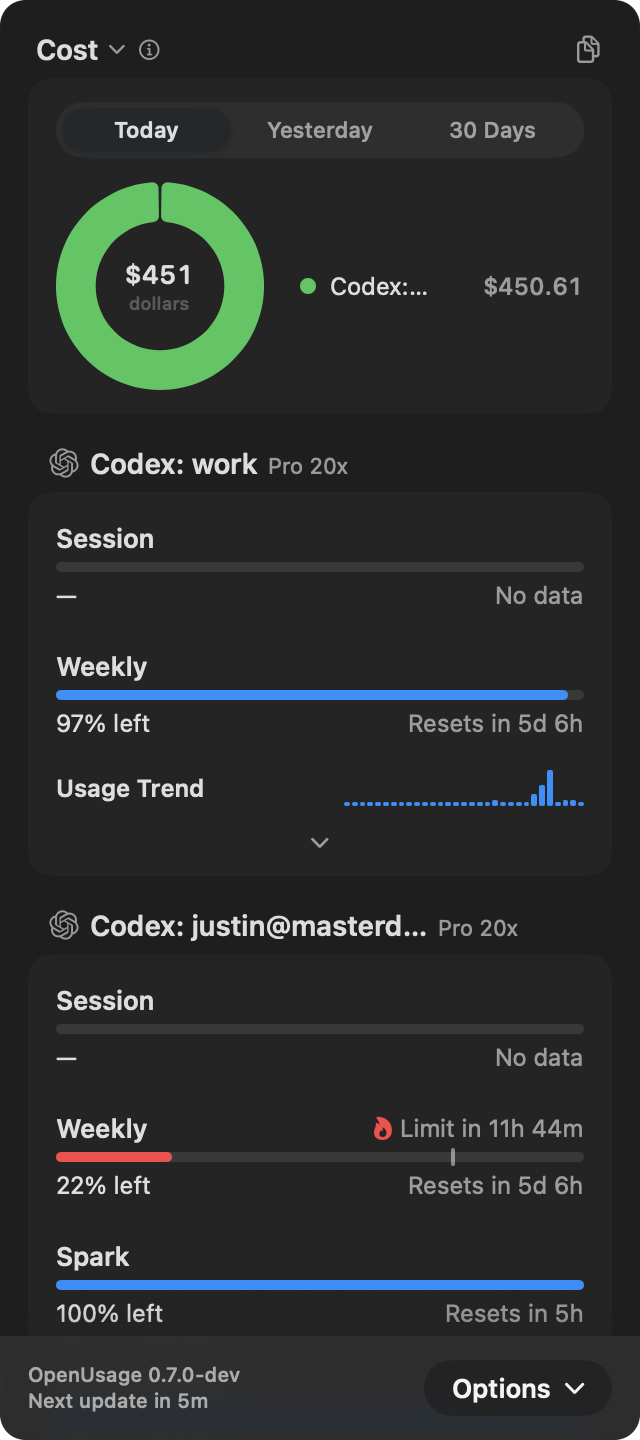
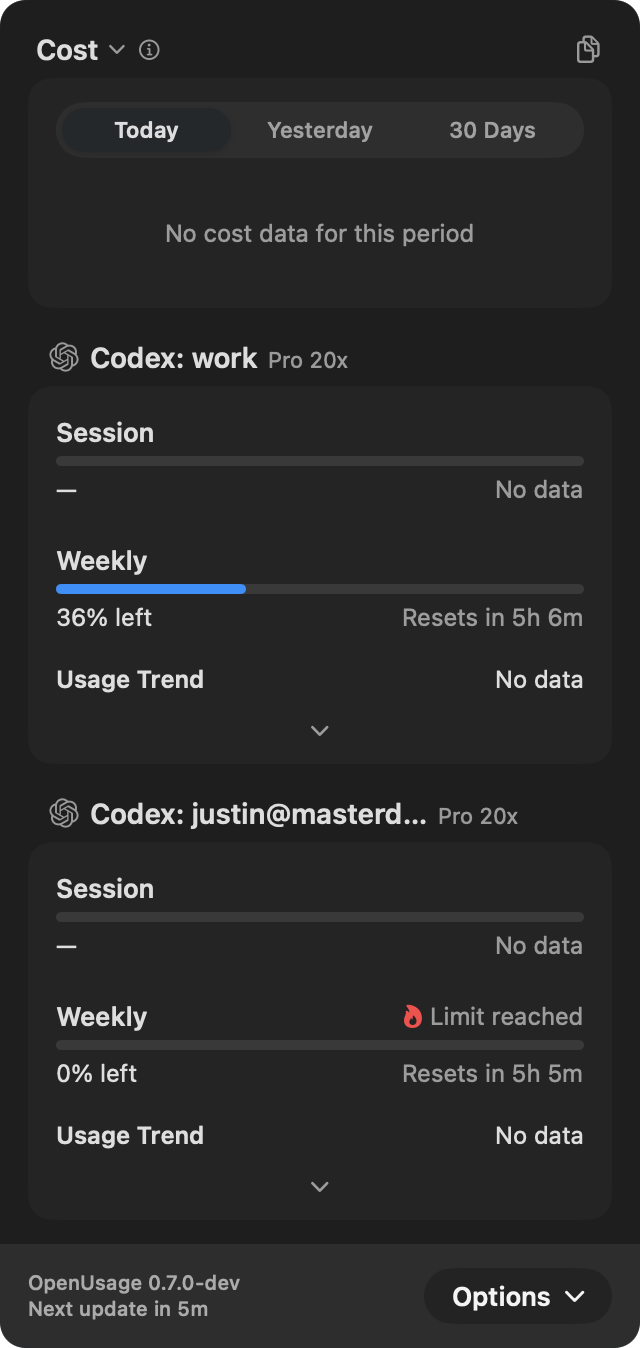
fix(codex): address follow-up account review

diff --git a/Tests/OpenUsageTests/CodexPR1266ReviewTests.swift b/Tests/OpenUsageTests/CodexPR1266ReviewTests.swift
@@ -1,0 +1,183 @@
+import XCTest
+@testable import OpenUsage
+
+@MainActor
+final class CodexPR1266ReviewTests: XCTestCase {
+    private func b64url(_ string: String) -> String {
+        Data(string.utf8).base64EncodedString()
+            .replacingOccurrences(of: "+", with: "-")
+            .replacingOccurrences(of: "/", with: "_")
+            .replacingOccurrences(of: "=", with: "")
+    }
+
+    private func token(accountID: String? = nil, email: String, exp: Date? = nil) -> String {
+        var claims = [#""https://api.openai.com/profile":{"email":"\#(email)"}"#]
+        if let accountID {
+            claims.append(#""https://api.openai.com/auth":{"chatgpt_account_id":"\#(accountID)"}"#)
+        }
+        if let exp { claims.append(#""exp":\#(Int(exp.timeIntervalSince1970))"#) }
+        return "\(b64url(#"{"alg":"RS256"}"#)).\(b64url("{\(claims.joined(separator: ","))}")).sig"
+    }
+
+    private func authJSON(
+        accountID: String?,
+        email: String,
+        accessToken: String? = nil,
+        refreshToken: String? = "rt"
+    ) -> String {
+        let token = accessToken ?? token(accountID: accountID, email: email)
+        let auth = CodexAuth(
+            tokens: CodexTokens(
+                accessToken: token,
+                refreshToken: refreshToken,
+                idToken: self.token(accountID: accountID, email: email),
+                accountID: accountID
+            ),
+            lastRefresh: nil,
+            apiKey: nil
+        )
+        return String(decoding: try! JSONEncoder().encode(auth), as: UTF8.self)
+    }
+
+    private func defaults() -> UserDefaults {
+        let name = "OpenUsageTests.CodexPR1266Review.\(UUID().uuidString)"
+        let defaults = UserDefaults(suiteName: name)!
+        defaults.removePersistentDomain(forName: name)
+        addTeardownBlock { defaults.removePersistentDomain(forName: name) }
+        return defaults
+    }
+
+    func testSiblingDiscoveryIncludesHiddenCodexDirectories() throws {
+        let root = FileManager.default.temporaryDirectory.appendingPathComponent(UUID().uuidString)
+        try FileManager.default.createDirectory(at: root, withIntermediateDirectories: true)
+        addTeardownBlock { try? FileManager.default.removeItem(at: root) }
+        try FileManager.default.createDirectory(at: root.appendingPathComponent(".codex-work"), withIntermediateDirectories: false)
+        try Data().write(to: root.appendingPathComponent(".codex-file"))
+
+        let names = CodexAccountDiscovery.listSubdirectories(root.path)
+
+        XCTAssertTrue(names.contains(".codex-work"))
+        XCTAssertFalse(names.contains(".codex-file"))
+    }
+
+    func testSwapMainAndSavedHomesStayReadOnlyThroughRefresh() async throws {
+        let now = Date(timeIntervalSince1970: 1_800_000_000)
+        let expired = token(accountID: "A", email: "a@test", exp: now.addingTimeInterval(-60))
+        let credential = authJSON(accountID: "A", email: "a@test", accessToken: expired)
+        let files = FakeFiles([
+            "/test/swap/accounts.json": #"{"schemaVersion":1,"mainHome":"/test/main","accounts":[{"number":1,"alias":"A","home":"/test/saved","identity":{"accountId":"A","email":"a@test"}}]}"#,
+            "/test/main/auth.json": credential,
+            "/test/saved/auth.json": credential,
+        ])
+        let environment = FakeEnvironment(["CODEX_HOME": "/test/main", "XSWAP_HOME": "/test/swap"])
+        let observer = DefaultAccountObserver(
+            environment: environment,
+            files: files,
+            keychain: FakeKeychain(),
+            homeDirectory: { URL(fileURLWithPath: "/test") }
+        )
+        let discovery = CodexAccountDiscovery(
+            environment: environment,
+            files: files,
+            homeDirectory: { URL(fileURLWithPath: "/test") },
+            listDirectories: { _ in [] }
+        )
+        let assembly = await ProviderAccountAssembly.make(
+            observer: observer,
+            accountsStore: ProviderAccountsStore(defaults: defaults()),
+            families: ["codex"],
+            codexDiscovery: discovery
+        )
+        let card = try XCTUnwrap(assembly.codexCards.first)
+        XCTAssertEqual(card.authHomes, ["/test/main", "/test/saved"])
+        XCTAssertTrue(card.writableAuthHomes.isEmpty)
+
+        let http = RoutingHTTPClient { _ in
+            XCTFail("Read-only expired Swap credentials must not make requests")
+            return HTTPResponse(statusCode: 500, headers: [:], body: Data())
+        }
+        let provider = CodexProvider(
+            authStore: CodexAuthStore(
+                environment: environment,
+                files: files,
+                keychain: FakeKeychain(),
+                now: { now },
+                expectedIdentity: card.identity,
+                additionalAuthHomes: card.authHomes,
+                writableAuthHomes: Set(card.writableAuthHomes)
+            ),
+            usageClient: CodexUsageClient(http: http),
+            now: { now }
+        )
+
+        let snapshot = await provider.refresh()
+
+        XCTAssertEqual(snapshot.errorCategory, .authExpired)
+        XCTAssertTrue(http.requests.isEmpty)
+        XCTAssertEqual(files.files["/test/main/auth.json"], credential)
+        XCTAssertEqual(files.files["/test/saved/auth.json"], credential)
+    }
+
+    func testRejectedHomeRefreshFallsBackToMatchingPiCredential() async throws {
+        let now = Date(timeIntervalSince1970: 1_800_000_000)
+        let expired = token(accountID: "A", email: "a@test", exp: now.addingTimeInterval(-60))
+        let valid = token(accountID: "A", email: "a@test", exp: now.addingTimeInterval(3600))
+        let original = authJSON(accountID: "A", email: "a@test", accessToken: expired)
+        let files = FakeFiles([
+            "/home/auth.json": original,
+            "/pi/auth.json": #"{"openai-codex":{"type":"oauth","access":"\#(valid)","accountId":"A"}}"#,
+        ])
+        let http = RoutingHTTPClient { request in
+            if request.url.host == "auth.openai.com" {
+                return HTTPResponse(
+                    statusCode: 400,
+                    headers: [:],
+                    body: Data(#"{"error":{"code":"refresh_token_reused"}}"#.utf8)
+                )
+            }
+            return HTTPResponse(
+                statusCode: 200,
+                headers: [:],
+                body: Data(#"{"plan_type":"pro","rate_limit":{"primary_window":{"used_percent":10,"limit_window_seconds":18000}}}"#.utf8)
+            )
+        }
+        let identity = try XCTUnwrap(CodexAccountIdentity(accountID: "A", email: "a@test"))
+        let provider = CodexProvider(
+            authStore: CodexAuthStore(
+                environment: FakeEnvironment(["CODEX_HOME": "/home"]),
+                files: files,
+                keychain: FakeKeychain(),
+                now: { now },
+                expectedIdentity: identity,
+                writableAuthHomes: ["/home"],
+                piCredentialSources: [.init(path: "/pi/auth.json", providerID: "openai-codex")]
+            ),
+            usageClient: CodexUsageClient(http: http),
+            now: { now }
+        )
+
+        let snapshot = await provider.refresh()
+
+        XCTAssertNil(snapshot.errorCategory)
+        XCTAssertEqual(http.requests[0].url.host, "auth.openai.com")
+        XCTAssertEqual(http.requests[1].headers["Authorization"], "Bearer \(valid)")
+        XCTAssertEqual(files.files["/home/auth.json"], original)
+    }
+
+    func testDefaultObserverLeavesEmailOnlyLoginUnresolved() {
+        let files = FakeFiles([
+            "/Users/dev/.codex/auth.json": authJSON(accountID: nil, email: "a@test"),
+        ])
+        let observer = DefaultAccountObserver(
+            environment: FakeEnvironment([:]),
+            files: files,
+            keychain: FakeKeychain(),
+            homeDirectory: { URL(fileURLWithPath: "/Users/dev") }
+        )
+
+        XCTAssertEqual(
+            observer.observeCodex(),
+            .unresolved(reason: "credentials present but no account identity")
+        )
+    }
+}

diff --git a/Sources/OpenUsage/Providers/Codex/CodexProvider+Accounts.swift b/Sources/OpenUsage/Providers/Codex/CodexProvider+Accounts.swift
@@ -48,6 +48,10 @@ extension CodexProvider {
                     let result = await snapshot(mapped: mapped)
                     guard await authStore.isCurrent(currentState) else { changed = true; break }
                     return result
+                } catch let error as CodexAuthError where error.allowsAuthFallback {
+                    guard await authStore.isCurrent(currentState) else { changed = true; break }
+                    AppLog.warn(LogTag.auth("codex"), "account credential failed (\(error)); trying a matching login")
+                    continue
                 } catch {
                     guard await authStore.isCurrent(currentState) else { changed = true; break }
                     return ProviderSnapshot.error(provider: provider, error: error)

diff --git a/Sources/OpenUsage/Providers/DefaultAccountObserver.swift b/Sources/OpenUsage/Providers/DefaultAccountObserver.swift
@@ -148,8 +148,9 @@ struct DefaultAccountObserver: Sendable {
             guard let auth = CodexAuthStore.parseAuth(text),
                   auth.tokens?.accessToken?.nilIfEmpty != nil
             else { continue }
-            if let identity = CodexAccountIdentity(auth: auth) {
-                return .resolved(identityKey: identity.accountID, label: identity.email, anchor: anchor)
+            if let identity = CodexAccountIdentity(auth: auth),
+               let accountID = identity.accountID.nilIfEmpty {
+                return .resolved(identityKey: accountID, label: identity.email, anchor: anchor)
             }
         }
         return sawFootprint

diff --git a/Sources/OpenUsage/Providers/Codex/CodexAccountDiscovery.swift b/Sources/OpenUsage/Providers/Codex/CodexAccountDiscovery.swift
@@ -37,8 +37,7 @@ struct CodexAccountDiscovery: Sendable {
     static func listSubdirectories(_ path: String) -> [String] {
         let urls = (try? FileManager.default.contentsOfDirectory(
             at: URL(fileURLWithPath: path),
-            includingPropertiesForKeys: [.isDirectoryKey, .isSymbolicLinkKey],
-            options: [.skipsHiddenFiles]
+            includingPropertiesForKeys: [.isDirectoryKey, .isSymbolicLinkKey]
         )) ?? []
         return urls.compactMap { url in
             guard let values = try? url.resourceValues(forKeys: [.isDirectoryKey, .isSymbolicLinkKey]),

diff --git a/Sources/OpenUsage/Services/ProviderAccountAssembly+Codex.swift b/Sources/OpenUsage/Services/ProviderAccountAssembly+Codex.swift
@@ -139,7 +139,7 @@ extension ProviderAccountAssembly {
                     : labels[identity.key] ?? "Codex",
                 authHomes: authHomes,
                 writableAuthHomes: matchingHomes.filter { home in
-                    !matchingSwaps.contains(where: { $0.home == home })
+                    !matchingSwaps.contains { $0.home == home || $0.mainHome == home }
                 },
                 piCredentialSources: matchingPi,
                 logHomes: allLogHomes,
